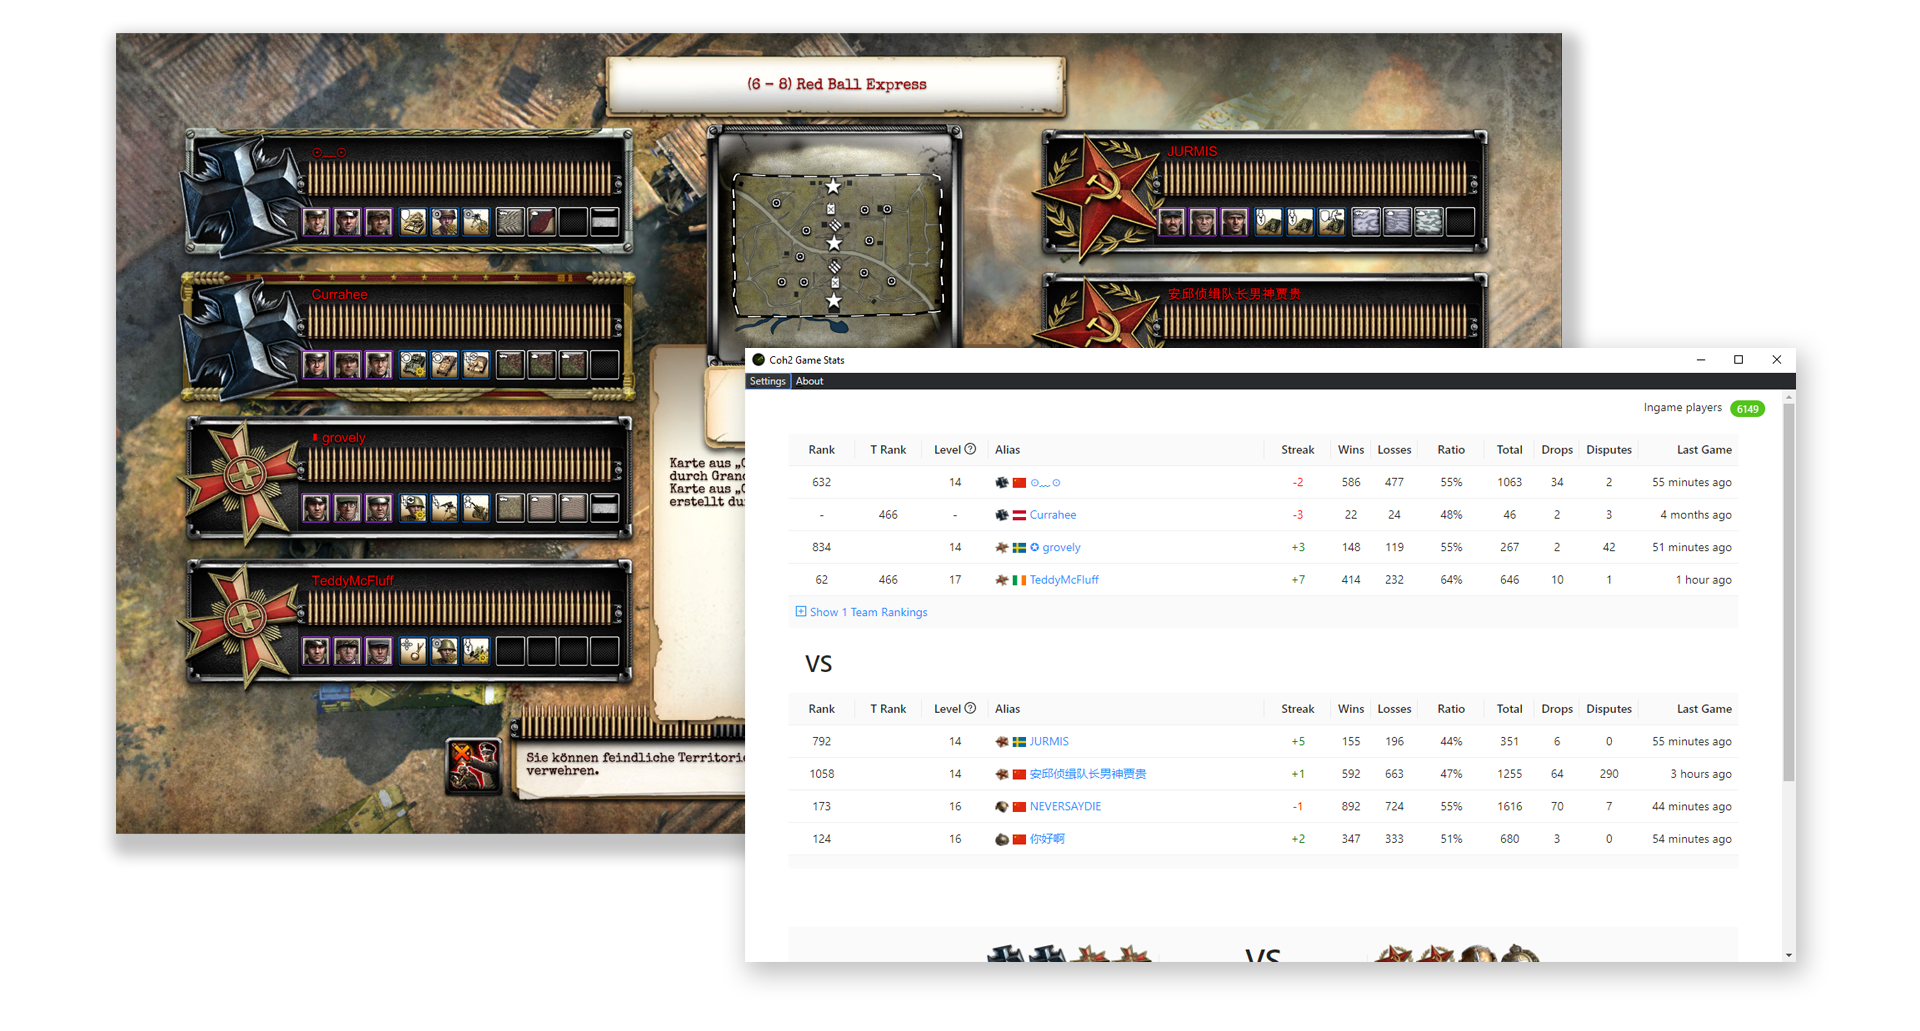
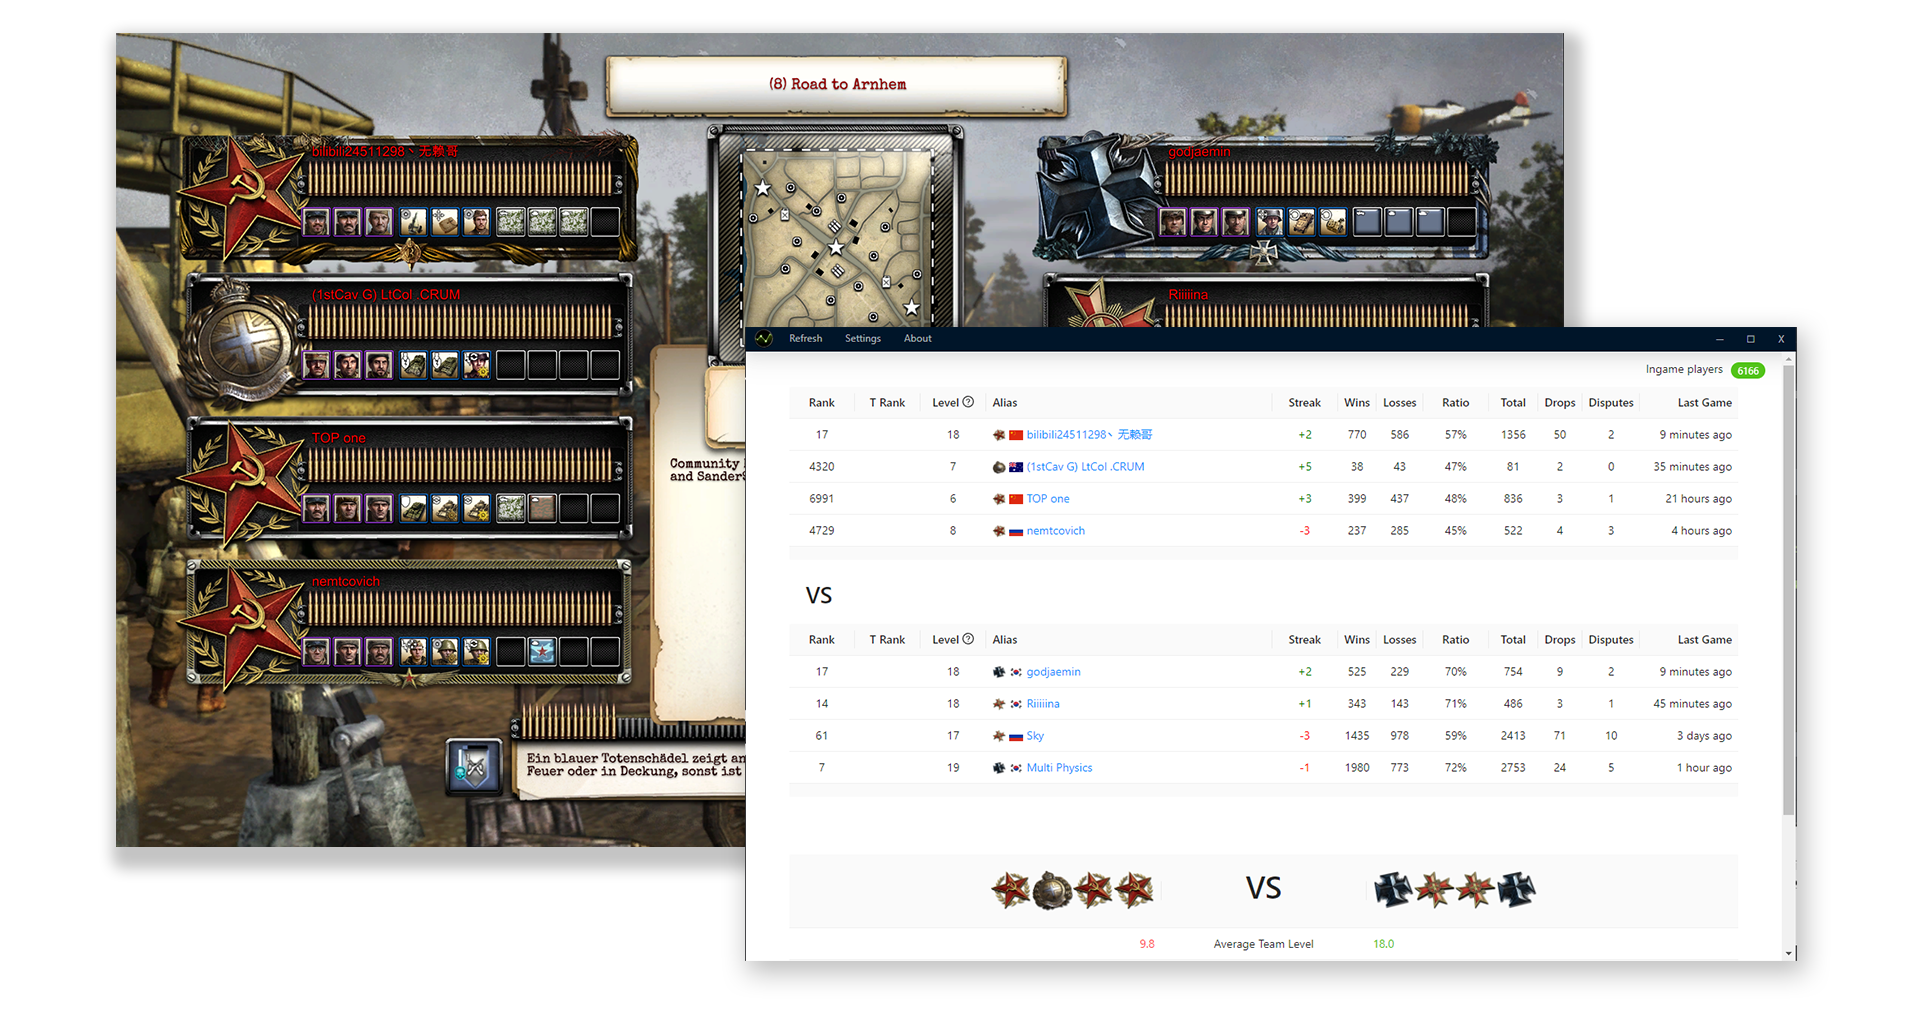
Update Desktop app web page

diff --git a/packages/web/src/pages/desktop-app/desktop-app.tsx b/packages/web/src/pages/desktop-app/desktop-app.tsx
@@ -27,6 +27,7 @@ const DesktopApp: React.FC = () => {
                 <li>See detailed leaderboard stats of players in your game</li>
                 <li>Game results prediction based on map analysis</li>
                 <li>Loads automatically when joining a new game</li>
+                <li>Twitch stream overlay extension</li>
                 <li>Streamer mode with OBS support</li>
               </ul>
               <br />
@@ -101,6 +102,46 @@ const DesktopApp: React.FC = () => {
             <Col xs={24} xl={16}>
               <Image
                 width={"100%"}
+                alt="Desktop app displays detailed player info for selected player"
+                src="resources/desktopAppImages/DarkMode.png"
+              />
+            </Col>
+            <Col xs={24} xl={8} style={{ paddingTop: "70px" }}>
+              <Title level={2}>Light and Dark Mode</Title>
+              <p style={{ fontSize: "20px" }}>
+                Switch between light and dark mode in the apps settings.
+              </p>
+            </Col>
+          </Row>
+          <Row justify="center" style={{ paddingTop: "40px" }}>
+            <Col xs={24} xl={8} style={{ paddingTop: "70px" }}>
+              <Title level={2}>Twitch Overlay Extension</Title>
+              <p style={{ fontSize: "20px" }}>
+                A expandable Stream Overlay that allows curious viewers to interact with your game
+                stats on stream. Check out the extension{" "}
+                <Link
+                  href={
+                    "https://dashboard.twitch.tv/extensions/6x9q2nzzv9wewklo7gt7hz2vypdgg7-0.0.1"
+                  }
+                  target="_blank"
+                >
+                  here
+                </Link>
+                .
+              </p>
+            </Col>
+            <Col xs={24} xl={16}>
+              <Image
+                width={"100%"}
+                alt="Desktop app displays additional statistics on the current team compositions"
+                src="resources/desktopAppImages/TwitchExtension.png"
+              />
+            </Col>
+          </Row>
+          <Row justify="center" style={{ paddingTop: "40px" }}>
+            <Col xs={24} xl={16}>
+              <Image
+                width={"100%"}
                 alt="Desktop app can be used in OBS to overlay player statistics on stream"
                 src="resources/desktopAppImages/StreamerMode.png"
               />
@@ -114,6 +155,7 @@ const DesktopApp: React.FC = () => {
                   href={
                     "https://github.com/cohstats/coh2stats/blob/master/packages/app/README.md#stream-overlay"
                   }
+                  target="_blank"
                 >
                   here
                 </Link>
